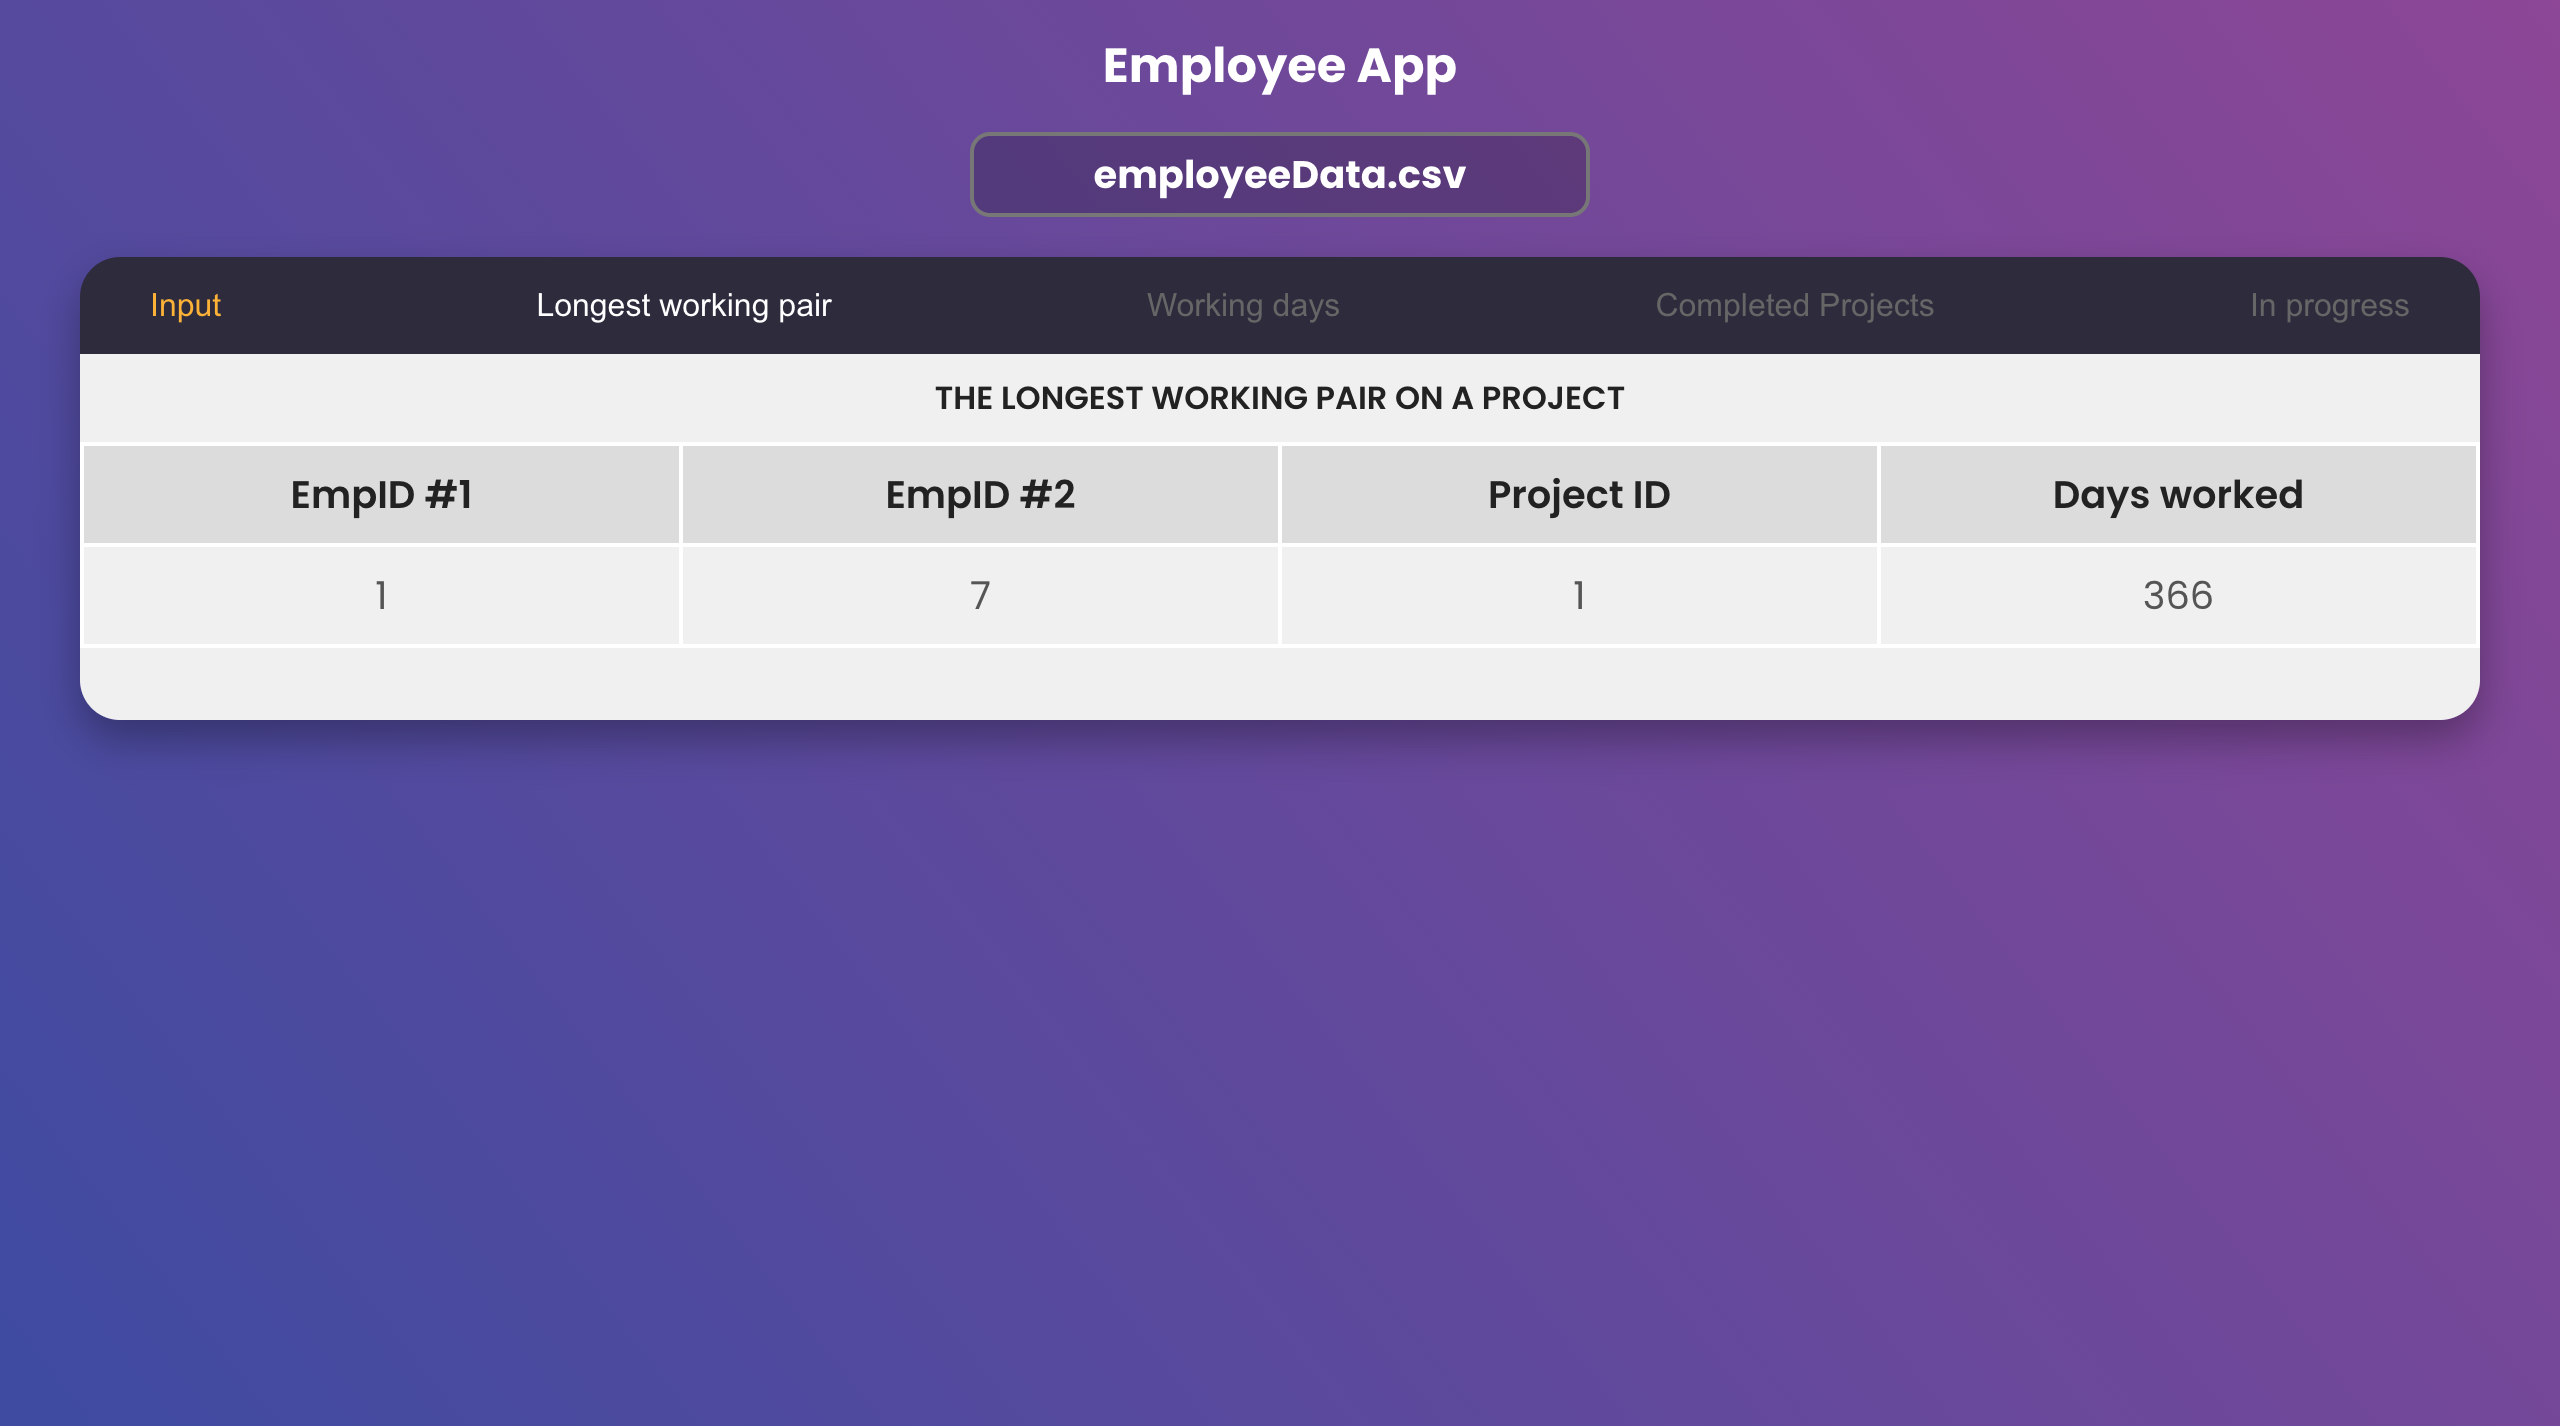
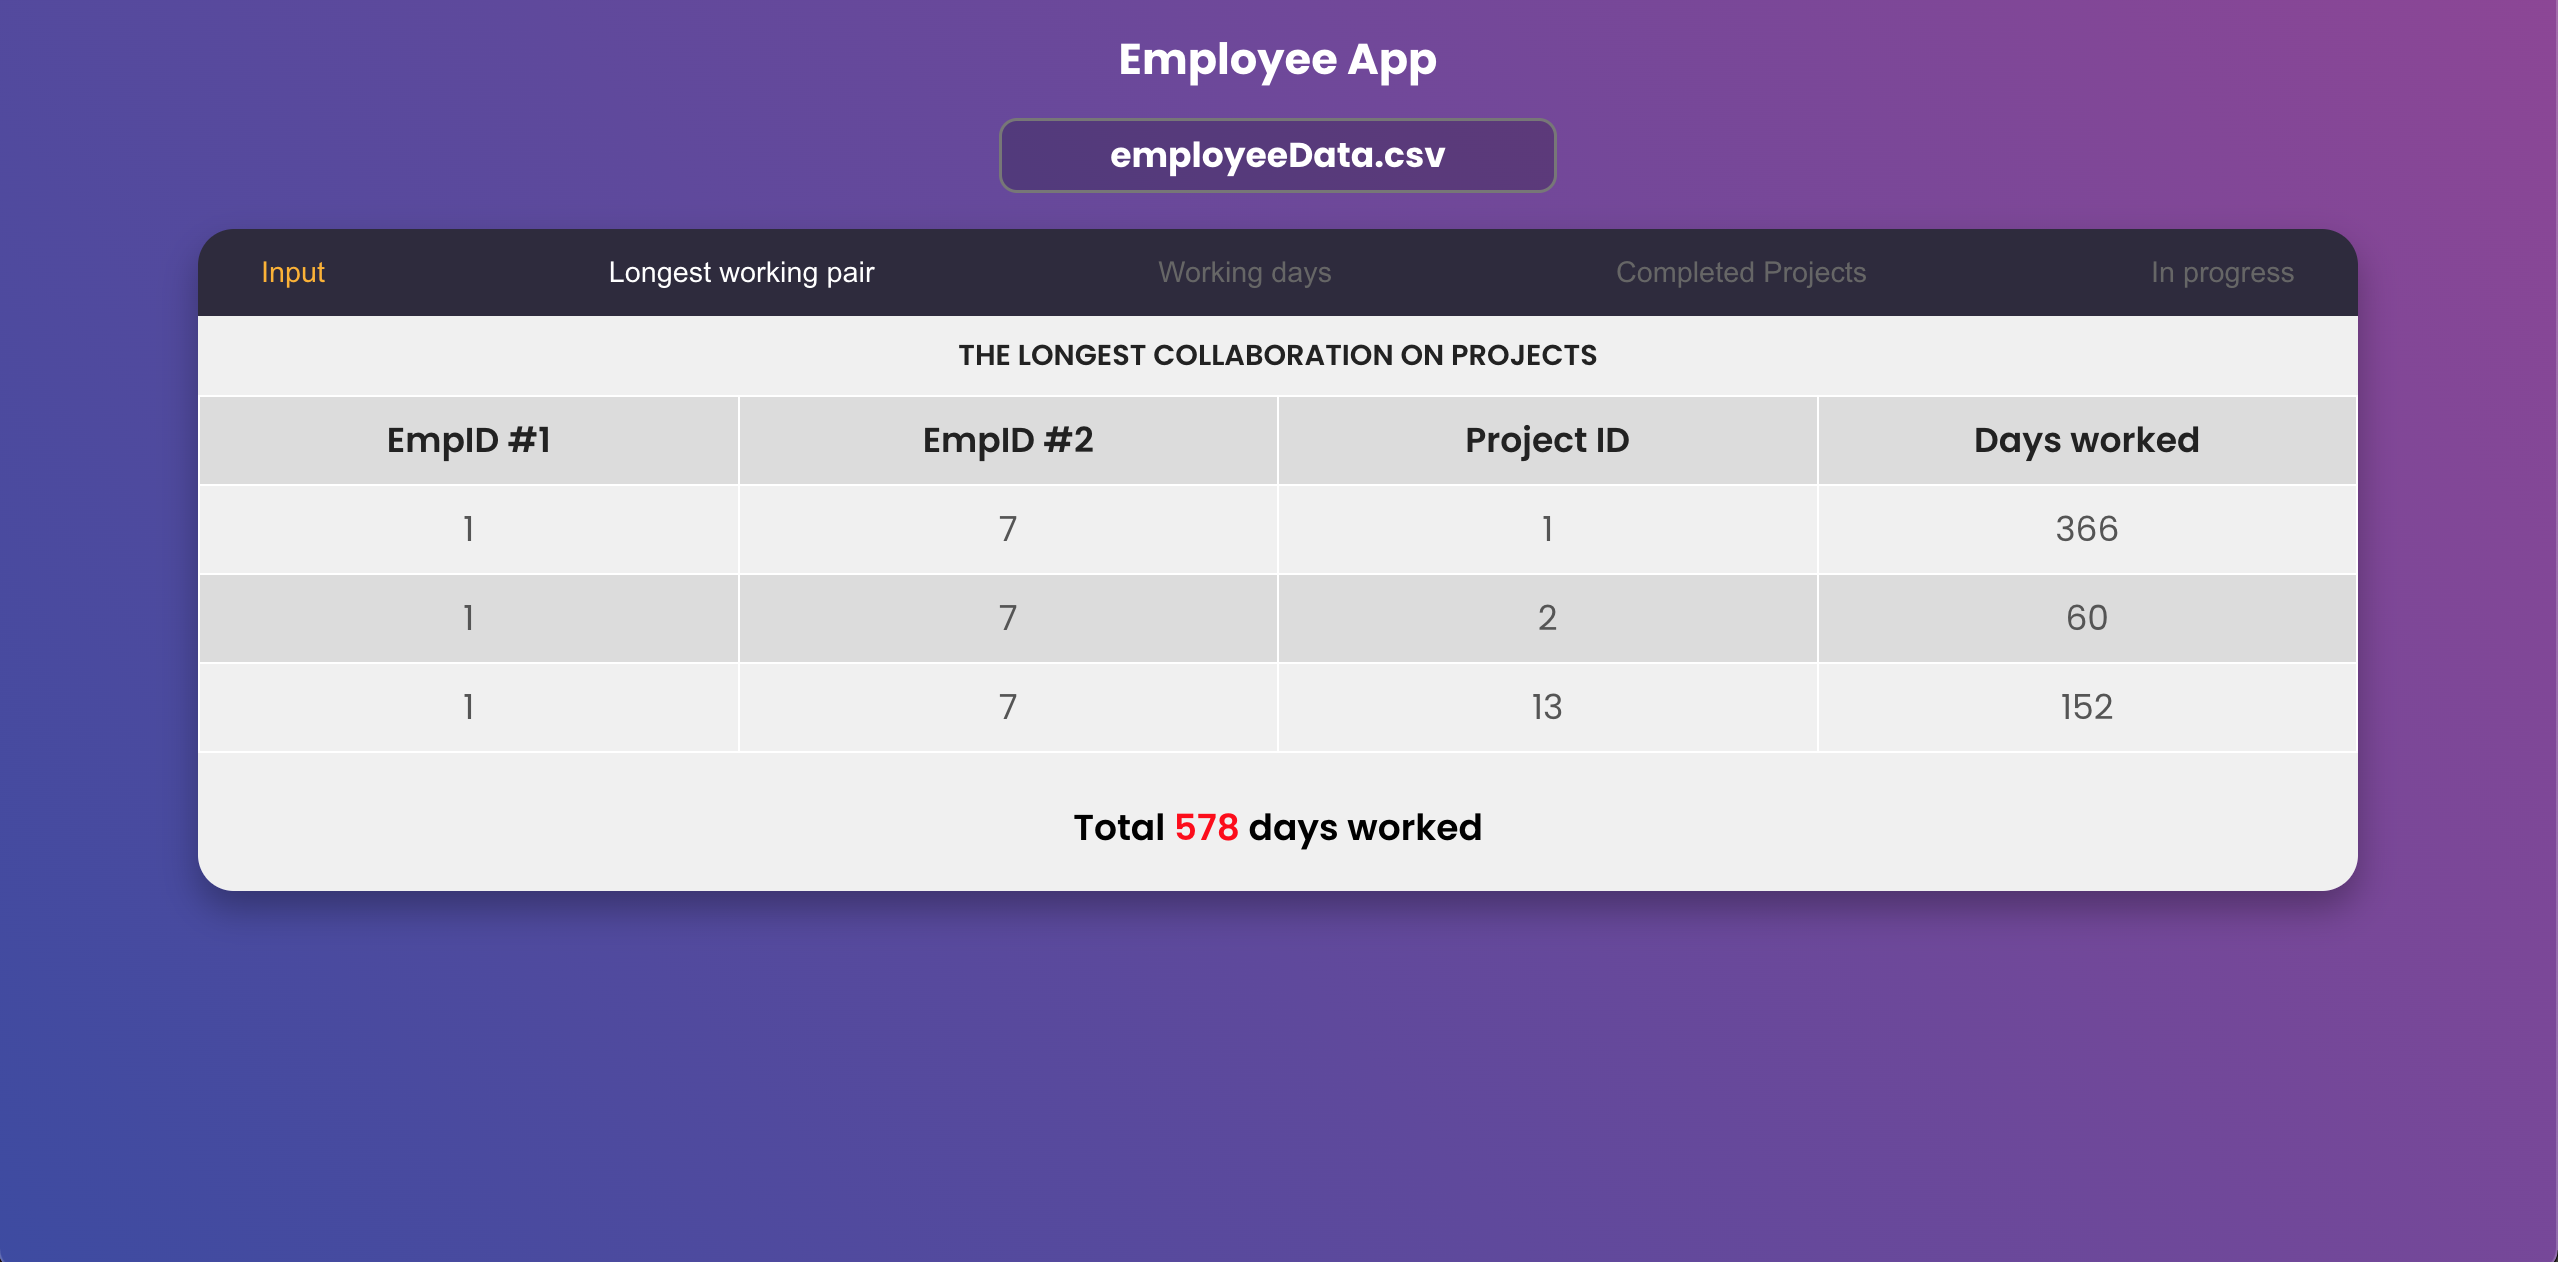
Fixed the longest collaboration for many projects

diff --git a/src/utils/helpers.js b/src/utils/helpers.js
@@ -3,7 +3,7 @@ import moment from 'moment/moment';
 
 const findLongestWorkedPair = (data) => {
     if (data && data.length > 0) {
-        let longestWorkedPair = ['', '', '', null];
+        let pairsWorkedTogether = {};
 
         for (let i = 0; i < data.length - 1; i++) {
             const { EmpID, ProjectID, DateFrom, DateTo } = data[i];
@@ -12,30 +12,55 @@ const findLongestWorkedPair = (data) => {
                 const { EmpID: otherEmpID, ProjectID: otherProjectID, DateFrom: otherDateFrom, DateTo: otherDateTo } = data[j];
 
                 if (EmpID !== otherEmpID && ProjectID === otherProjectID) {
-                    const startDate = moment(DateFrom).isSame(moment(), 'day') ? moment() : moment(DateFrom);
-                    const endDate = moment(DateTo).isSame(moment(), 'day') ? moment() : moment(DateTo);
-                    const otherStartDate = moment(otherDateFrom).isSame(moment(), 'day') ? moment() : moment(otherDateFrom);
-                    const otherEndDate = moment(otherDateTo).isSame(moment(), 'day') ? moment() : moment(otherDateTo);
+                    const startDate = moment(DateFrom);
+                    const endDate = moment(DateTo);
+                    const otherStartDate = moment(otherDateFrom);
+                    const otherEndDate = moment(otherDateTo);
 
                     if (startDate.isSameOrBefore(otherEndDate) && endDate.isSameOrAfter(otherStartDate)) {
-                        const overlappingStartDate = startDate.isAfter(otherStartDate) ? startDate : otherStartDate;
-                        const overlappingEndDate = endDate.isBefore(otherEndDate) ? endDate : otherEndDate;
+                        const overlappingStartDate = moment.max(startDate, otherStartDate);
+                        const overlappingEndDate = moment.min(endDate, otherEndDate);
                         const daysWorked = overlappingEndDate.diff(overlappingStartDate, 'days') + 1;
 
-                        if (daysWorked > longestWorkedPair[3]) {
-                            longestWorkedPair = [EmpID, otherEmpID, ProjectID, daysWorked];
+                        const pairKey = `${EmpID}-${otherEmpID}`;
+                        if (!pairsWorkedTogether[pairKey]) {
+                            pairsWorkedTogether[pairKey] = {
+                                EmpID1: EmpID,
+                                EmpID2: otherEmpID,
+                                Projects: {}
+                            };
                         }
+
+                        if (!pairsWorkedTogether[pairKey].Projects[ProjectID]) {
+                            pairsWorkedTogether[pairKey].Projects[ProjectID] = 0;
+                        }
+
+                        pairsWorkedTogether[pairKey].Projects[ProjectID] += daysWorked;
                     }
                 }
             }
         }
-        return [{
-            EmpID1: longestWorkedPair[0],
-            EmpID2: longestWorkedPair[1],
-            ProjectID: longestWorkedPair[2],
-            DaysWorked: longestWorkedPair[3],
-        }];
+
+        const mostCollaborativePair = Object.values(pairsWorkedTogether).reduce((maxPair, currentPair) => {
+            const currentPairTotalDays = Object.values(currentPair.Projects).reduce((total, days) => total + days, 0);
+            const maxPairTotalDays = Object.values(maxPair.Projects).reduce((total, days) => total + days, 0);
+
+            return currentPairTotalDays > maxPairTotalDays ? currentPair : maxPair;
+        }, { Projects: {} });
+
+        if (Object.keys(mostCollaborativePair.Projects).length > 0) {
+            const result = Object.entries(mostCollaborativePair.Projects).map(([projectID, days]) => ({
+                EmpID1: mostCollaborativePair.EmpID1,
+                EmpID2: mostCollaborativePair.EmpID2,
+                ProjectID: projectID,
+                Days: days
+            }));
+
+            return result;
+        }
     }
+
+    return [];
 };
 
 const groupWorkedDaysByProject = (data) => {

diff --git a/src/components/TableRenderer/TableRenderer.jsx b/src/components/TableRenderer/TableRenderer.jsx
@@ -28,9 +28,10 @@ const TableRenderer = () => {
                 };
             case 'longest':
                 return {
-                    title: 'The longest working pair on a project',
-                    header: ['EmpID #1', 'EmpID #2', 'Project ID', 'Days worked'],
+                    title: 'The longest collaboration on projects',
+                    header: ['EmpID #1', 'EmpID #2', 'Project ID', 'Days'],
                     body: findLongestWorkedPair(data),
+                    total: findLongestWorkedPair(data).reduce((totalDays, project) => totalDays + project.Days, 0)
                 };
             case 'total':
                 return {

diff --git a/src/components/Table/Table.jsx b/src/components/Table/Table.jsx
@@ -3,7 +3,6 @@ import TableHeader from './TableHeader';
 import TableRow from './TableRow';
 
 import styles from './Table.module.css';
-import _ from 'lodash';
 
 const Table = ({ data }) => {
     if (!data || !data.body) {
@@ -28,10 +27,10 @@ const Table = ({ data }) => {
                                 <TableRow row={row} />
                             </tr>
                         );
-                    })
-                    }
+                    })}
                 </tbody>
             </table>
+            {data.total && <p className={styles.total}>Total <span>{data.total}</span> days worked</p>}
         </div>
     );
 };

diff --git a/src/components/Table/Table.module.css b/src/components/Table/Table.module.css
@@ -109,6 +109,17 @@ table th {
     background: rgba(220, 220, 220, 1);
 }
 
+.total{
+    margin-top: 10px;
+    text-align: center;
+    font-size: 20px;
+    font-weight: 600;
+}
+
+.total span{
+    color: red;
+}
+
 @media screen and (max-width: 1200px) {
 
     .container>table td,
